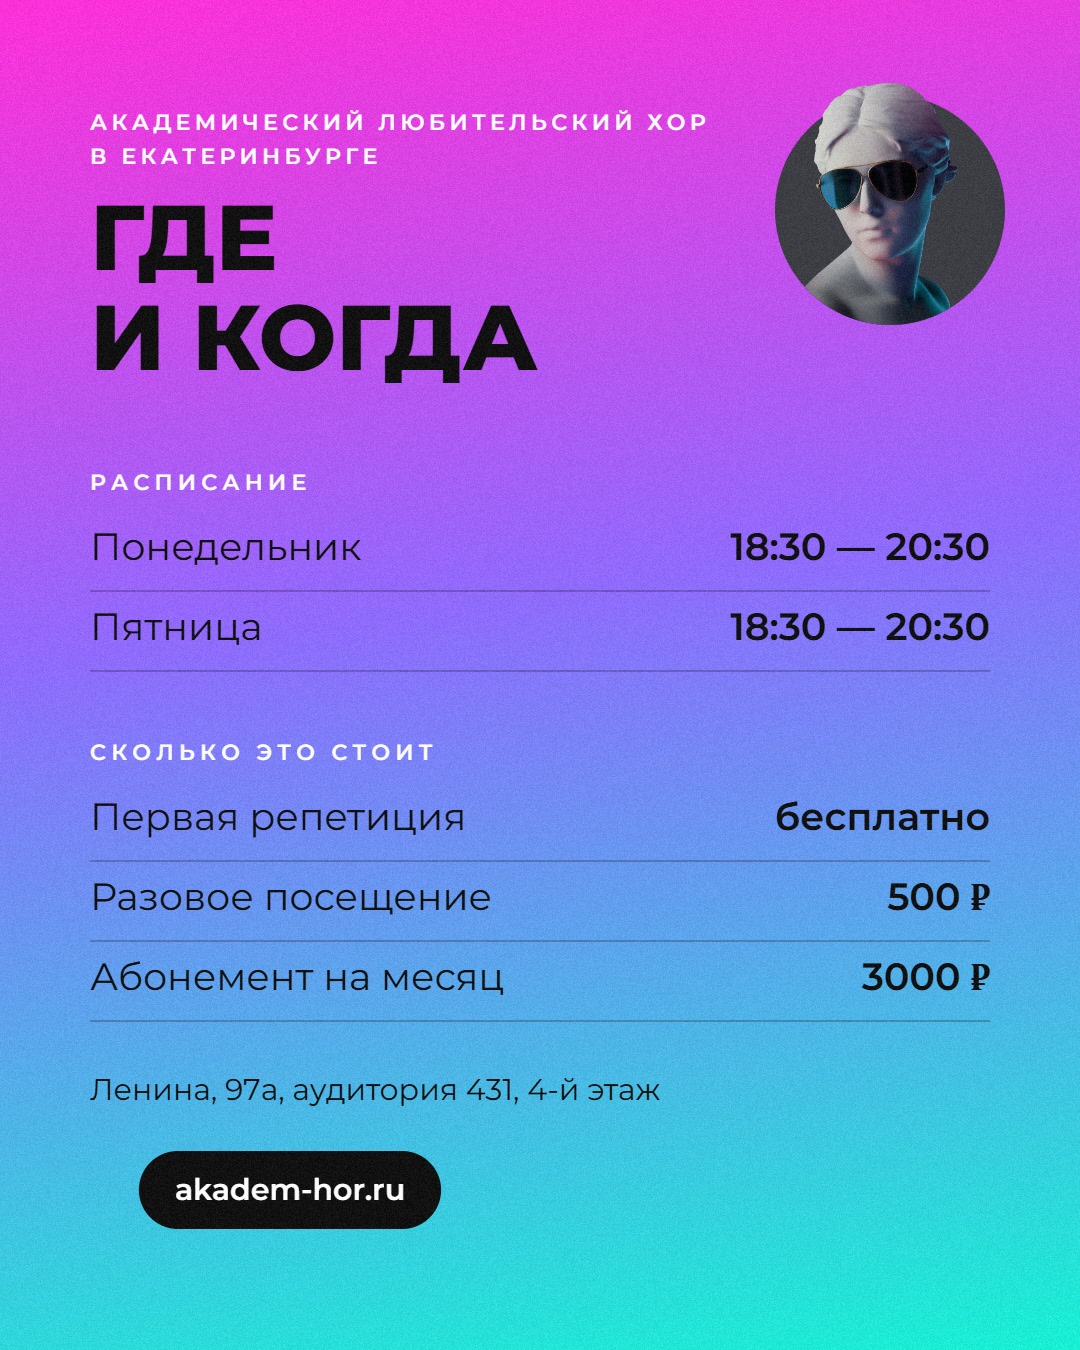
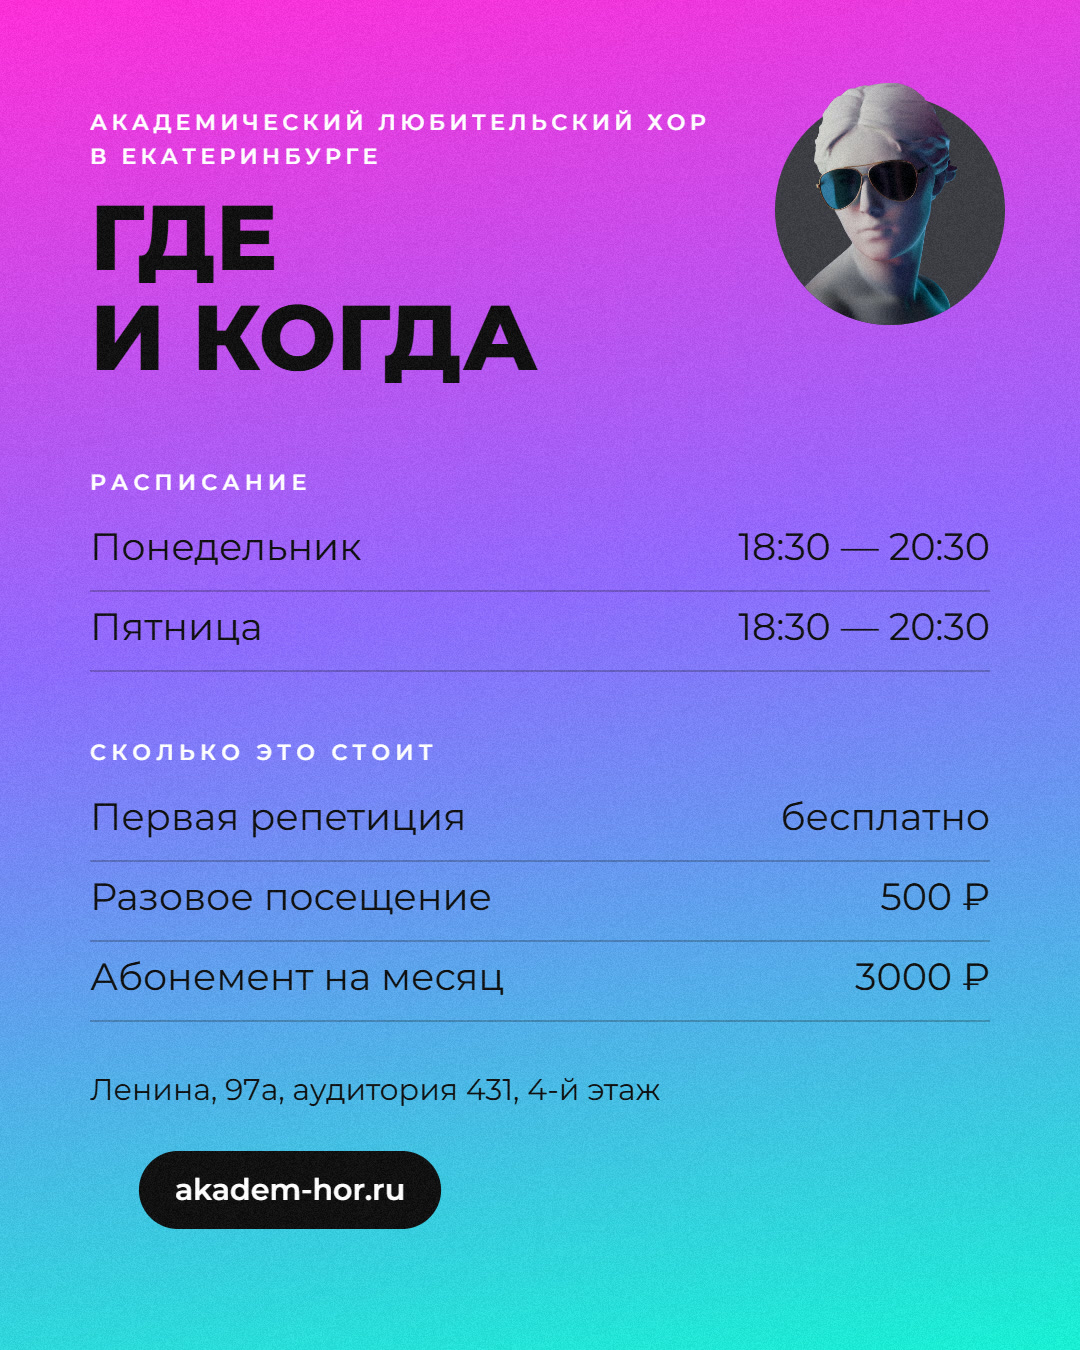
Знак рубля шрифтом Montserrat на сайте и в картинках ВК; цены в посте обычным начертанием

diff --git a/PROJECT.md b/PROJECT.md
@@ -1145,3 +1145,8 @@ CSS `aspect-ratio` не работает, пока не задано `height: au
   сверху. Картинки — `public/vk/` (JPEG), исходники PNG — в папке
   «вк-оформление» рядом с сайтом; рисует их `vk.html` (canvas) в рабочей
   папке Claude.
+- **14.10.2026** Знак «₽» рисовался чужим шрифтом с засечками: у Montserrat
+  он в наборе latin-ext, а подключены были только latin и cyrillic.
+  Подключены latin-ext 400 и 600 — на сайте (браузер скачивает файл только
+  ради ₽) и в генераторе картинок ВК. В посте «Расписание» значения
+  обычным начертанием, как в таблицах сайта.
